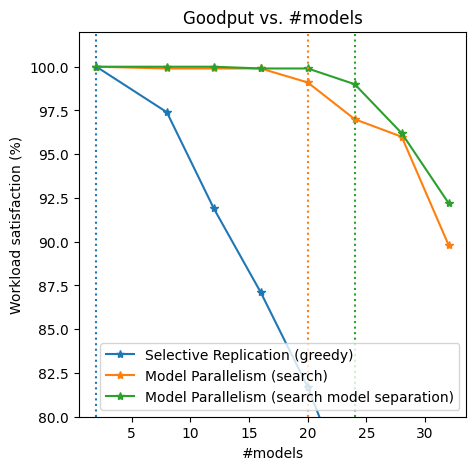
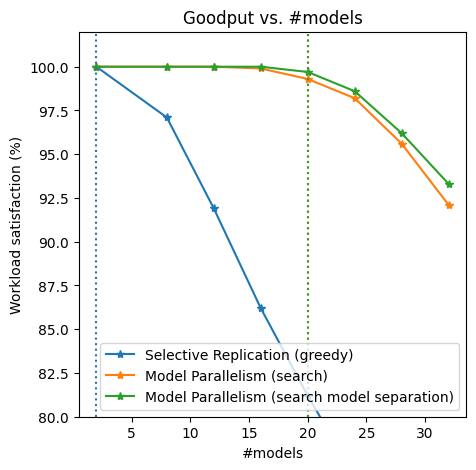
round v2.0

diff --git a/alpa_serve/placement_policy/base_policy.py b/alpa_serve/placement_policy/base_policy.py
@@ -265,9 +265,9 @@ class PlacementEvaluator:
 
 
 def gen_train_workload(model_datas: List[ModelData],
-                       seed: int = 1234,
-                       simulation_min_duration: float = 100,
-                       simulation_min_samples: int = 30000):
+                       seed: int = 0,
+                       simulation_min_duration: float = 200,
+                       simulation_min_samples: int = 0):
     """Generate a training workload for search."""
     total_rate = sum(d.rate for d in model_datas)
     duration = max(simulation_min_duration, simulation_min_samples / total_rate)
